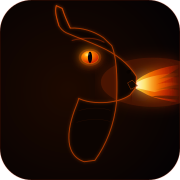
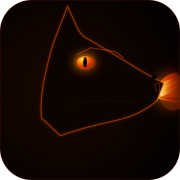
feat: アイコンを漆黒×炎オレンジの横顔シルエットに完全再設計

Changed region(s): [[0.2222, 0.0278, 1.0, 0.9167]]

diff --git a/generate-icons.js b/generate-icons.js
@@ -21,7 +21,7 @@ async function main() {
     await sharp(SRC)
       .resize(inner, inner)
       .extend({ top: pad, bottom: pad, left: pad, right: pad,
-                background: { r: 7, g: 11, b: 20, alpha: 1 } })
+                background: { r: 4, g: 1, b: 2, alpha: 1 } })
       .png()
       .toFile(path.join(__dirname, 'icons', `icon-maskable-${size}.png`));
     console.log(`icon-maskable-${size}.png`);

diff --git a/sw.js b/sw.js
@@ -4,7 +4,7 @@
    ============================================================ */
 'use strict';
 
-const CACHE_NAME = 'dragon-cradle-v2';
+const CACHE_NAME = 'dragon-cradle-v3';
 
 const PRECACHE_ASSETS = [
   './',
